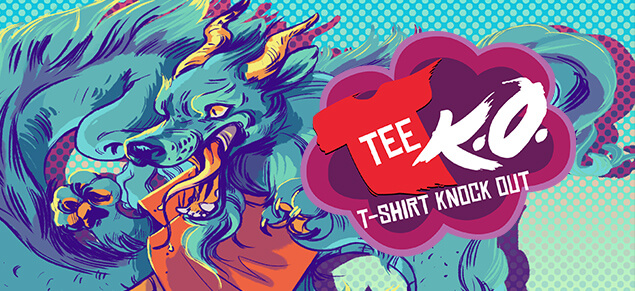
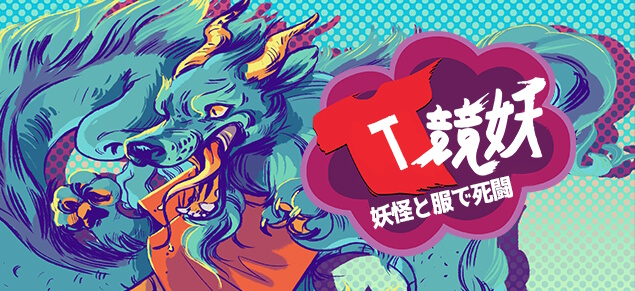
翻訳更新

diff --git a/main/@connect/script.js b/main/@connect/script.js
@@ -13647,7 +13647,7 @@ var tae = M$((nae, nI) => {
             isPublic: !0,
             directory: "pp3/fakinit"
         }, {
-            name: "Tee K.O.",
+            name: "Ｔ・競妖",
             tag: "awshirt",
             wrapper: "marionette",
             isPublic: !0,
@@ -13869,7 +13869,7 @@ var tae = M$((nae, nI) => {
             features: ["moderation"],
             categoryId: "quiplash3Game"
         }, {
-            name: "Ｔ👕競妖",
+            name: "Ｔ・競妖",
             tag: "awshirt-tjsp",
             wrapper: "vue",
             isPublic: !0,
